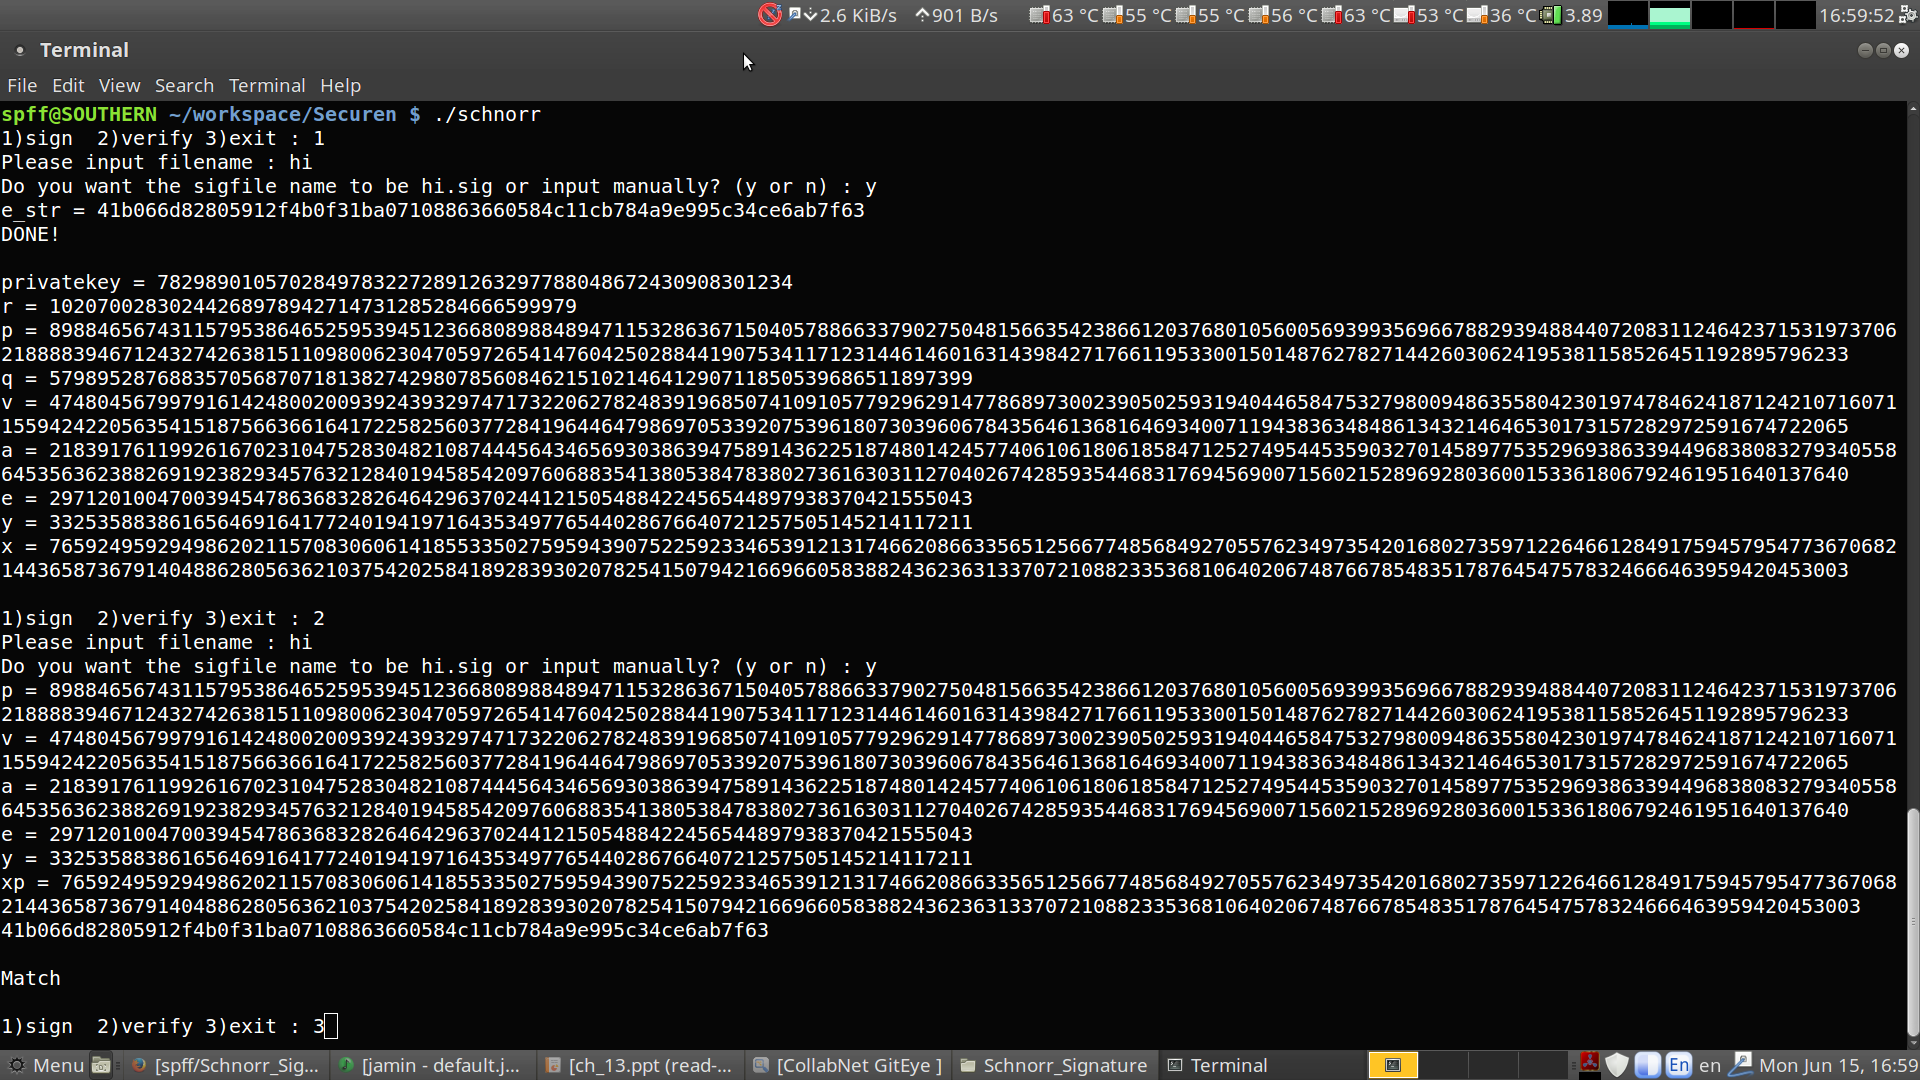
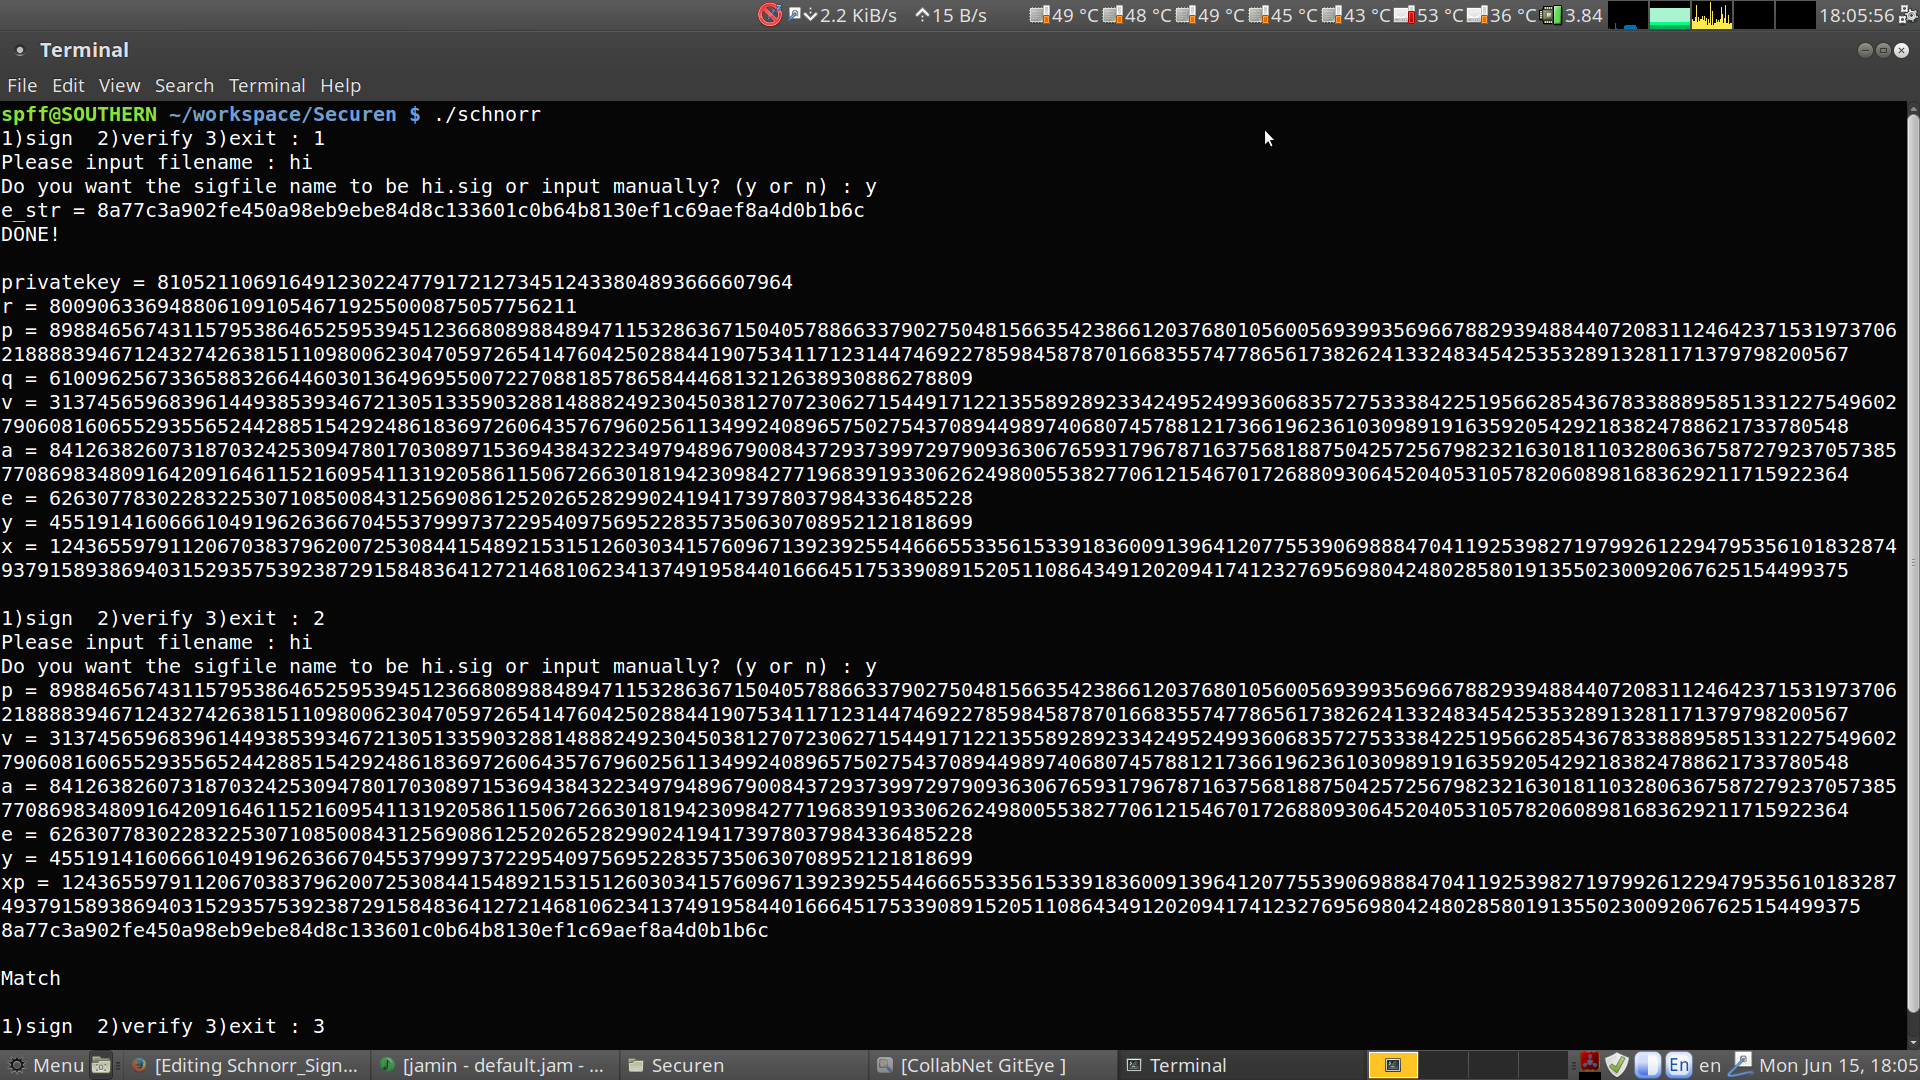
update screenshot

diff --git a/schnorr.cpp b/schnorr.cpp
@@ -1,19 +1,3 @@
-/*  This program is free software: you can redistribute it and/or modify
-    it under the terms of the GNU General Public License as published by
-    the Free Software Foundation, either version 3 of the License, or
-    any later version.
-
-    This program is distributed in the hope that it will be useful,
-    but WITHOUT ANY WARRANTY; without even the implied warranty of
-    MERCHANTABILITY or FITNESS FOR A PARTICULAR PURPOSE.  See the
-    GNU General Public License for more details.
-
-    You should have received a copy of the GNU General Public License
-    along with this program.  If not, see <http://www.gnu.org/licenses/>.
-*/
-
-
-
 //TODO    :make it batch sign whole directory
 
 #include <stdio.h>
@@ -302,7 +286,7 @@ class Mission{
             sig.close();
             cout << "DONE!" << endl << endl;
 if(DEBUG)
-    cout << "privatekey = " << privatekey  << endl << "r = " << r  << endl << "p = " << p  << endl << "q = " << q << endl  << "v = " << v << endl << "a = " << a << endl << "e = " << e << endl << "y = " << y << endl << "x = " << x  << endl << endl;
+    cout << "privatekey = " << privatekey  << endl << "r = " << r  << endl << "p = " << p  << endl << "q = " << q << endl  << "v = " << v << endl << "a = " << a << endl << "e 10 base = " << e << endl << "y = " << y << endl << "x = " << x  << endl << endl;
         }
 
         void Verify(){
@@ -328,7 +312,7 @@ if(DEBUG)
             ep = HexStringToMpz(ep_str);
 
 if(DEBUG)
-    cout << "p = " << p  << endl << "v = " << v << endl << "a = " << a << endl << "e = " << e << endl << "y = " << y << endl << "xp = " << xp << endl << ep_str << endl << endl;
+    cout << "p = " << p  << endl << "v = " << v << endl << "a = " << a << endl << "e 10 base = " << e << endl << "y = " << y << endl << "xp = " << xp << endl << "ep 10 base = " << ep << endl << endl;
 
             if(ep == e)
                 cout << "Match" << endl << endl;
